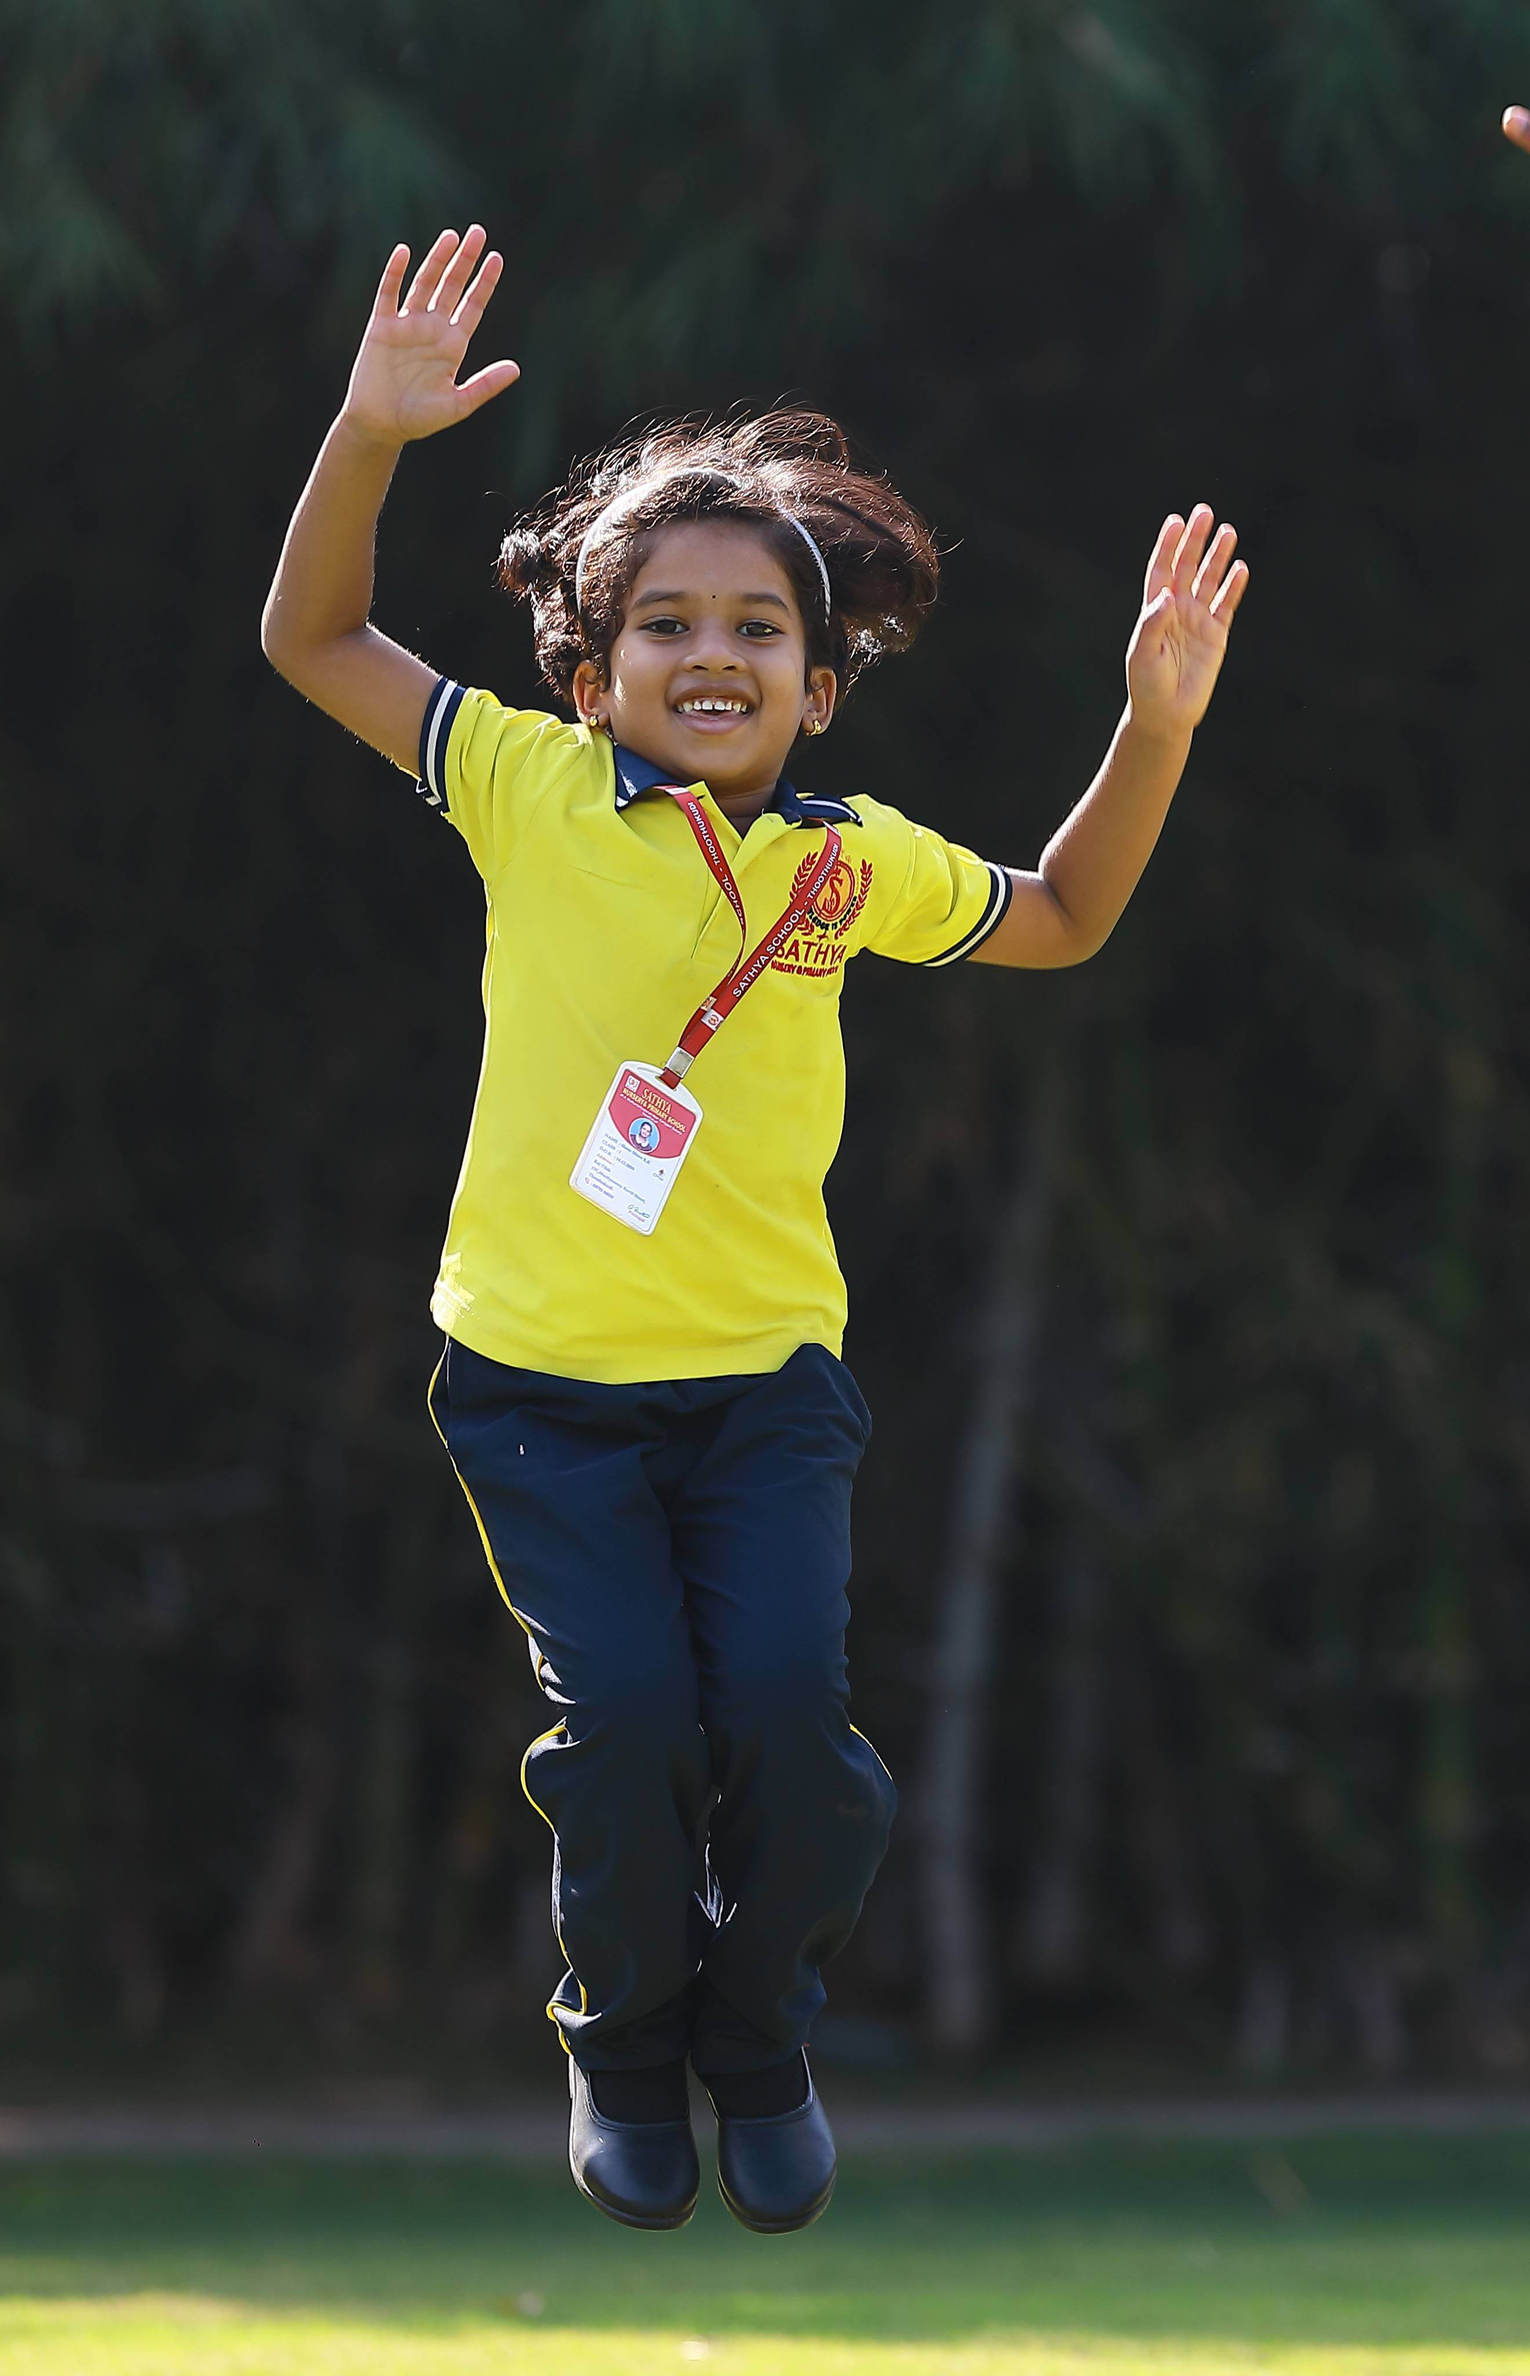
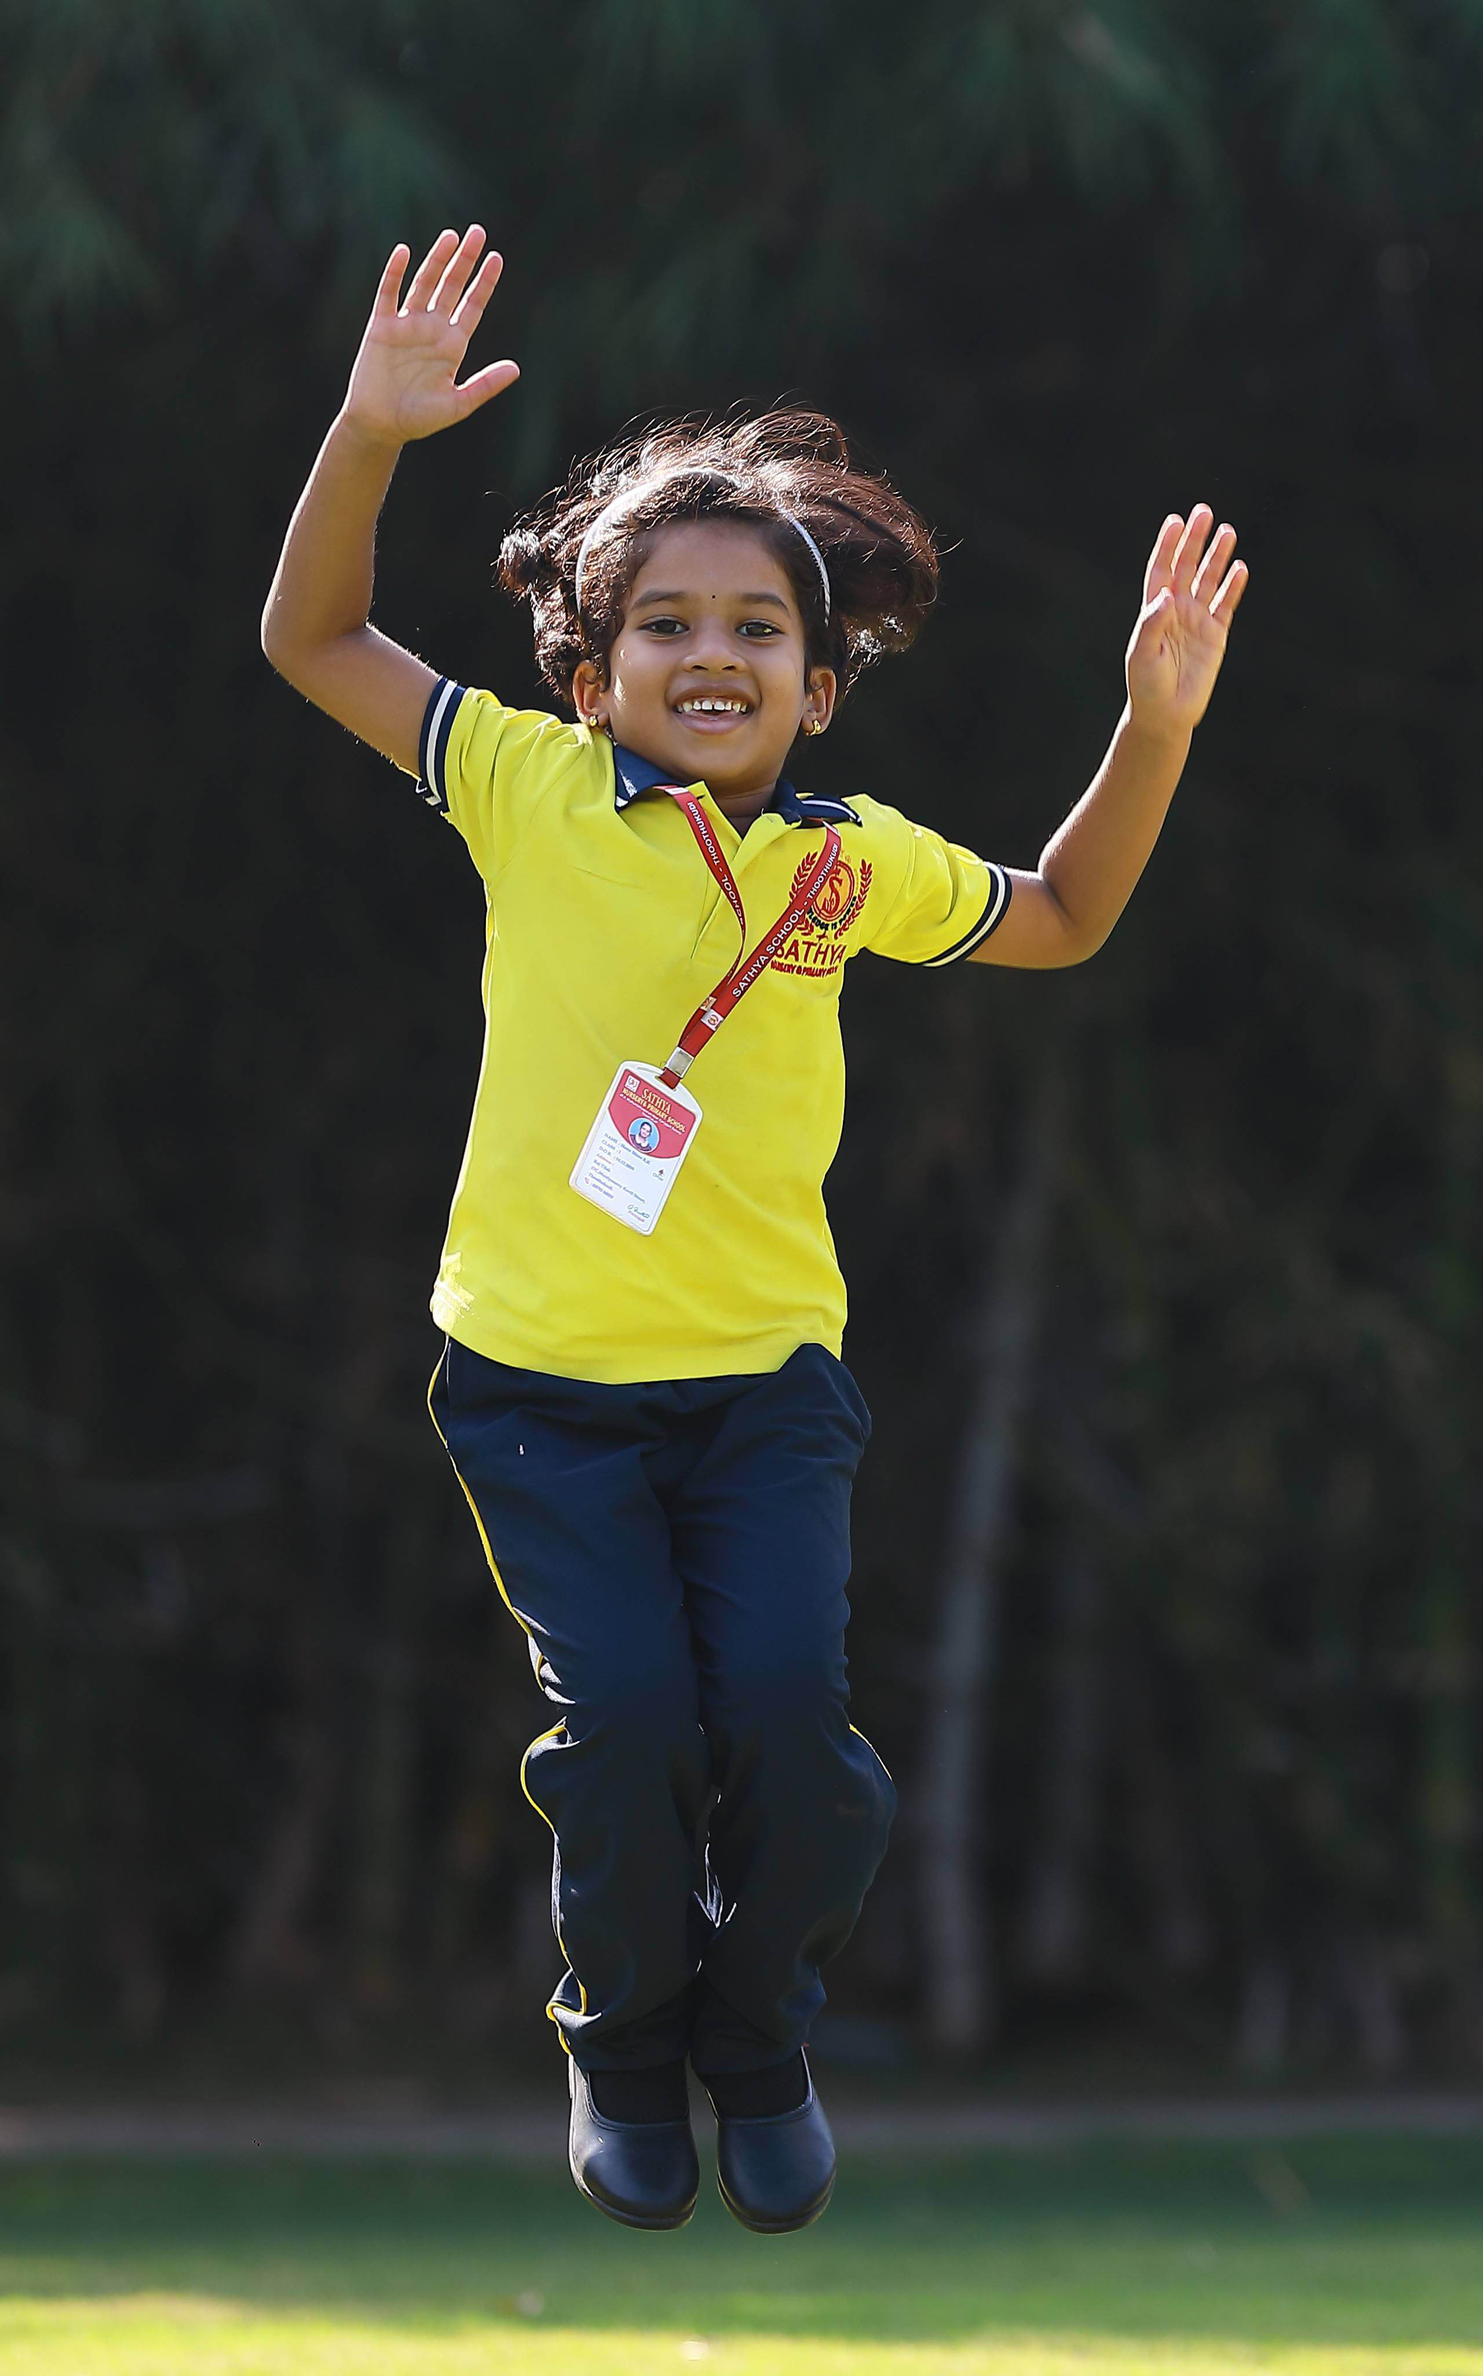
home and header updates

diff --git a/components/Headernew.js b/components/Headernew.js
@@ -1539,7 +1539,7 @@ const Header = () => {
       <>
          {/* Header */}
           <header className="absolute top-0 left-0 w-full z-40 bg-transparent text-white w-full">
-            <div className="max-w-7xl mx-auto px-6 py-3 flex items-center relative">
+            <div className="max-w-7xl mx-auto px-6 py-4 flex items-center relative">
 
               {/* Logo Centered */}
               <div className="absolute left-1/2 -translate-x-1/2 top-6">
@@ -1554,19 +1554,19 @@ const Header = () => {
               </div>
 
               {/* Admission Button */}
-              <div className="ml-auto ">
+              <div className="ml-auto">
                 <div className="flex">
                   {/* Icons Group */}
-                  <div className="flex items-center space-x-6 pl-3">
+                  <div className="flex items-center space-x-6 pl-3 mr-10">
                       {/* User Account */}
                       <div className="relative" >
                           {isLoggedIn ? (
                               <>
-                                <div className="flex items-center justify-center">
+                                <div className="flex items-center justify-center bg-white rounded-2xl shadow">
                                   <button onClick={() => setDropdownOpen(!dropdownOpen)} className="relative flex items-center justify-center w-8 h-8 rounded-full bg-red-500 hover:bg-red-400 transition">
                                       <FaUser size={18} className="text-white hover:text-white" />
                                   </button>
-                                  <span className="ml-1 font-bold text-xs sm:text-sm text-white hidden lg:inline pl-1 max-w-[80px] truncate">
+                                  <span className="ml-1 font-bold text-xs sm:text-sm text-black hidden lg:inline pl-1 max-w-[80px] truncate pr-3">
                                   Hi, {(userData?.name || userData?.username || "User").slice(0, 6)}
                                 </span>
 
@@ -1601,7 +1601,7 @@ const Header = () => {
                                   )}
                               </>
                           ) : (
-                              <button onClick={() => setShowAuthModal(true)} className="relative flex items-center justify-center w-8 h-8 rounded-full bg-red-500 hover:bg-red-400 transition">
+                              <button onClick={() => setShowAuthModal(true)} className="relative flex items-center justify-center w-8 h-8 rounded-full bg-red-500 hover:bg-red-400 transition p-2">
                                   <FaUser size={18} className="text-white" />
                                   {/* <span className="ml-1 font-bold text-xs sm:text-sm text-customBlue hidden lg:inline">Sign In</span> */}
                               </button>
@@ -1610,7 +1610,7 @@ const Header = () => {
                   </div>
                   {/* Mobile Hamburger */}
                   <button
-                    className="focus:outline-none bg-red-500 ml-3 text-white rounded"
+                    className="fixed top-3 right-2 md:right-5 z-50 focus:outline-none bg-red-500 text-white rounded p-1"
                     onClick={() => setIsOpen(!isOpen)}
                     aria-label="Toggle menu"
                   >
@@ -1646,52 +1646,53 @@ const Header = () => {
 
             {/* Mobile Menu */}
             {isOpen && (
-              <nav
-                className={`fixed inset-0 z-40 bg-red-700 text-white font-semibold flex justify-start items-start space-y-6 text-2xl transition-opacity duration-200 py-5 px-5 ${
-                  isOpen ? "opacity-100 translate-x-0 pointer-events-auto" : "opacity-0 translate-x-full pointer-events-none"
-                }`}
-              >
-                {/* Close Button */}
-                <button
-                  onClick={() => setIsOpen(false)}
-                  className="absolute top-6 right-6 text-white text-3xl hover:text-gray-200 transition"
-                  aria-label="Close menu"
-                >
-                  &times;
-                </button>
-                <div className="flex-1 flex flex-col justify-center space-y-8 px-5 md:px-12 text-3xl">
-                <a href="#" className="block hover:underline" onClick={() => setIsOpen(false)}>
-                  Home
-                </a>
-                <a href="/#about" className="block hover:underline" onClick={() => setIsOpen(false)}>
-                  About Us
-                </a>
-                <a href="/#grade" className="block hover:underline" onClick={() => setIsOpen(false)}>
-                  Grade
-                </a>
-                <a href="/#Why" className="block hover:underline" onClick={() => setIsOpen(false)}>
-                  Why Parent Trust Us
-                </a>
-                <a href="/#ACTIVITIES" className="block hover:underline" onClick={() => setIsOpen(false)}>
-                  Activities
-                </a>
-                <a
-                  href="/admission"
-                  className="block hover:underline"
-                  onClick={() => setIsOpen(false)}
-                >
-                  Admission Open
-                </a>
-                </div>
+              <nav className="fixed inset-0 z-40 flex text-white font-semibold text-xl">
                 
-                {/* Wrapper div for visibility */}
-                <div className="hidden md:flex flex-1 items-center justify-center pr-12">
-                  <img
-                    src="user/logo.png"
-                    alt="Logo"
-                    className="max-w-[400px] opacity-30"
-                    style={{ userSelect: "none" }}
+                {/* LEFT MENU */}
+                <div
+                    className={`menu-slide-left flex flex-col space-y-8 px-6 pt-8 bg-red-600
+                    ${isOpen ? "menu-open" : ""}`}
+                  >
+                  <Link className="menu-item text-white" href="#" onClick={() => setIsOpen(false)}>
+                    <span className="menu-text text-white">Home</span>
+                  </Link>
+                  <Link className="menu-item" href="/#about" onClick={() => setIsOpen(false)}>
+                    <span className="menu-text text-white">About Us</span>
+                  </Link>
+                  <Link className="menu-item" href="/#grade" onClick={() => setIsOpen(false)}>
+                    <span className="menu-text text-white">Grade</span>
+                  </Link>
+                  <Link className="menu-item" href="/#Why" onClick={() => setIsOpen(false)}>
+                    <span className="menu-text text-white">Why Parent Trust Us</span>
+                  </Link>
+                  <Link className="menu-item" href="/#ACTIVITIES" onClick={() => setIsOpen(false)}>
+                    <span className="menu-text text-white">Activities</span>
+                  </Link>
+                  <Link className="menu-item" href="/admission" onClick={() => setIsOpen(false)}>
+                    <span className="menu-text text-white" >Admission Open</span>
+                  </Link>
+                </div>
+
+                {/* RIGHT IMAGE (hidden on mobile) */}
+                <div className="hidden md:flex flex-1 relative">
+                  <div
+                    className="absolute inset-0 bg-cover bg-center sidebar-bg-image"
+                    style={{
+                      backgroundImage:
+                        "url('/images/home-page-img/sidebar-menu.jpg')",
+                    }}
                   />
+                  <div className="absolute inset-0 bg-black/50" />
+
+                  {/* Optional logo */}
+                  <div className="absolute inset-0 top-5 flex items-start justify-center">
+                    <img
+                      src="user/logo.png"
+                      alt="Logo"
+                      className="w-20 opacity-100 select-none"
+                    />
+                  </div>
+
                 </div>
 
               </nav>

diff --git a/app/globals.css b/app/globals.css
@@ -410,3 +410,81 @@ body::-webkit-scrollbar {
   -ms-overflow-style: none;
   scrollbar-width: none;
 }
+
+@keyframes sidebarImageSlideUp {
+  from {
+    transform: translateY(60px);
+    opacity: 0;
+  }
+  to {
+    transform: translateY(0);
+    opacity: 1;
+  }
+}
+
+.sidebar-bg-image {
+  animation: sidebarImageSlideUp 0.3s ease-out forwards;
+}
+
+/* MENU SLIDE – HEAVY LEFT FEEL */
+@keyframes menuSlideLeft {
+  from {
+    transform: translateX(-120%);
+    opacity: 0;
+  }
+  to {
+    transform: translateX(0);
+    opacity: 1;
+  }
+}
+
+.menu-slide-left {
+  transform: translateX(-120%); 
+  opacity: 0;                  
+  animation: menuSlideLeft 0.3s cubic-bezier(0.16, 1, 0.3, 1) forwards;
+}
+
+/* Menu Item animation */
+@keyframes menuFadeIn {
+  from {
+    opacity: 0;
+    transform: translateY(12px);
+  }
+  to {
+    opacity: 1;
+    transform: translateY(0);
+  }
+}
+
+/* Default – hidden */
+.menu-item {
+  opacity: 0;
+}
+
+/* Only when sidebar opens */
+.menu-open .menu-item {
+  animation: menuFadeIn 0.5s ease-out forwards;
+}
+
+/* Accurate one-by-one delay */
+.menu-open .menu-item:nth-child(1) { animation-delay: 0s; }
+.menu-open .menu-item:nth-child(2) { animation-delay: 0.15s; }
+.menu-open .menu-item:nth-child(3) { animation-delay: 0.3s; }
+.menu-open .menu-item:nth-child(4) { animation-delay: 0.45s; }
+.menu-open .menu-item:nth-child(5) { animation-delay: 0.6s; }
+.menu-open .menu-item:nth-child(6) { animation-delay: 0.75s; }
+
+
+
+/* Child (hover zoom only) */
+ .menu-text {
+  display: inline-block;
+  transition: transform 0.25s ease;
+}
+
+.menu-text:hover {
+  transform: scale(1.12);
+} 
+
+
+
